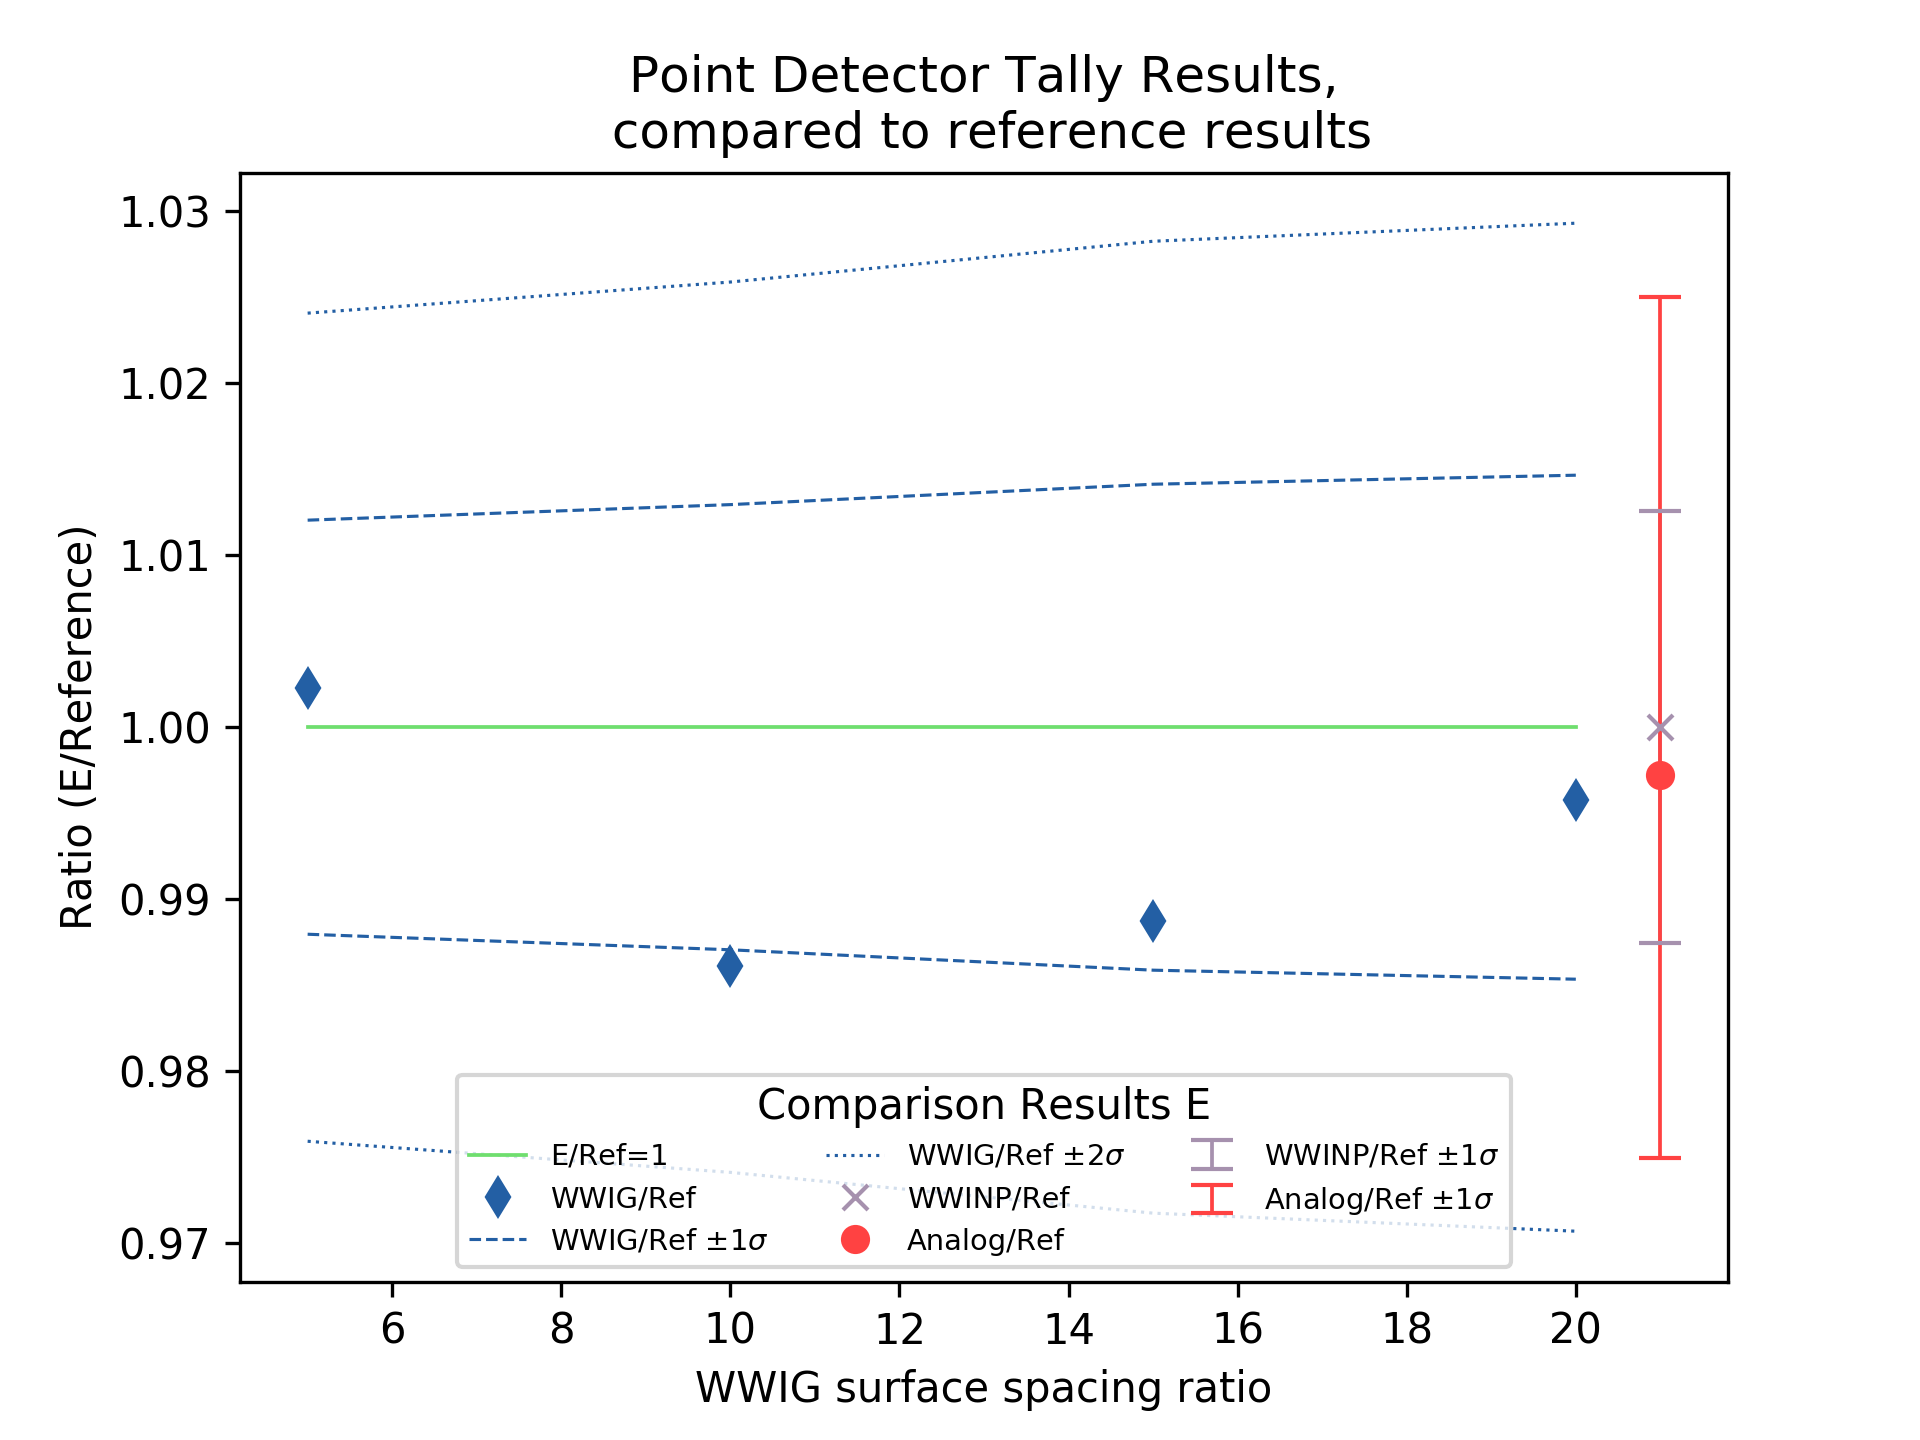
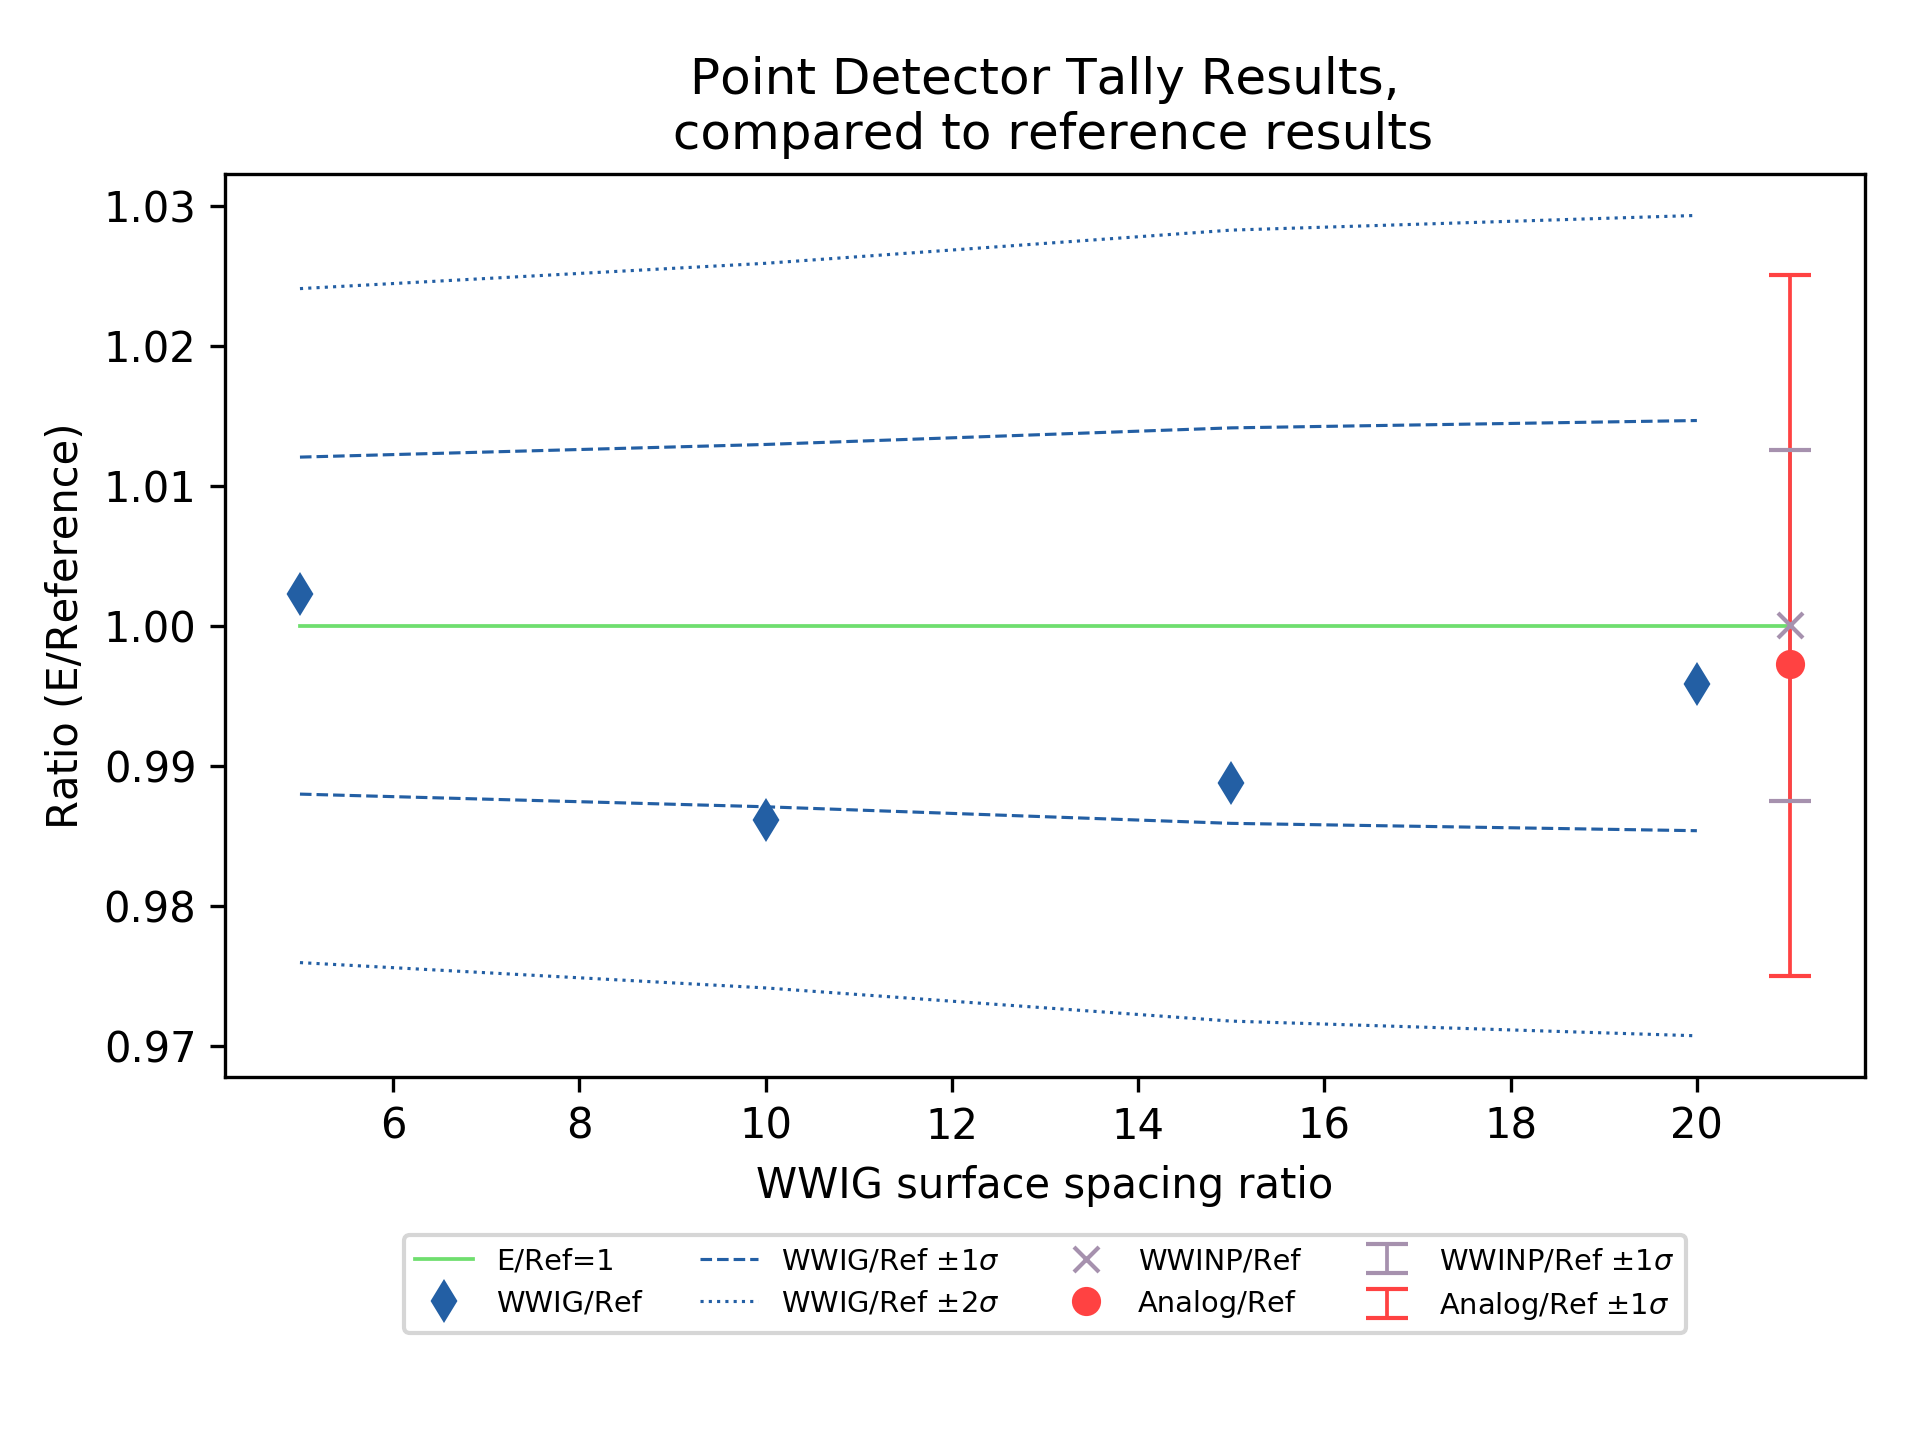
better plot formatting

diff --git a/analyze/tally_15.py b/analyze/tally_15.py
@@ -70,10 +70,11 @@ plt.plot(ref_xs, ref1_lower, label='', ls='--', lw=.75, color=ref_color)
 plt.plot(ref_xs, ref2_upper, label='Reference $\pm 2\sigma$',
          ls=':', lw=.75, color=ref_color)
 plt.plot(ref_xs, ref2_lower, label='', ls=':', lw=.75, color=ref_color)
-plt.xlabel('WWIG surface spacing ratio')
+plt.xlabel('WWIG surface spacing ratio $r$')
 plt.ylabel('Tally')
 plt.title('Point Detector Tally Results')
-plt.legend(loc='best', ncol=2, fontsize='x-small')
+plt.legend(bbox_to_anchor=(0.5, -.21), loc='lower center', ncol=6, fontsize='x-small')
+plt.tight_layout()
 plt.savefig('tally15_results.png', dpi=dpi)
 
 # plot wwinp ratio
@@ -102,9 +103,8 @@ ar2_upper, ar2_lower = calc_sigmas(r1, aerr, 2)
 plt.figure()
 
 # reference
-plt.plot(ratios, r1, label='E/Ref=1', ls='-', marker='', lw=.9,
+plt.plot(np.append(ratios, ext_x), np.append(r1, 1), label='E/Ref=1', ls='-', marker='', lw=.9,
          color=ref_color)
-
 # wwig/reference
 plt.plot(ratios, wgratio, label='WWIG/Ref', ls='', marker='d', lw=.9,
          color=wwig_color)
@@ -130,24 +130,27 @@ plt.plot(ext_x, aratio, label='Analog/Ref', ls='', marker='o', lw=.9,
 plt.xlabel('WWIG surface spacing ratio')
 plt.ylabel('Ratio (E/Reference)')
 plt.title('Point Detector Tally Results,\n compared to reference results')
-plt.legend(loc='best', ncol=3, fontsize='x-small',
-           title='Comparison Results E')
+plt.legend(bbox_to_anchor=(0.5, -.3), loc='lower center', ncol=4,
+           fontsize='x-small')
+plt.tight_layout()
+
 plt.savefig('tally15_ratios.png', dpi=dpi)
 
 # plot relative errors
 plt.figure()
 plt.plot(ref_xs[:len(ratios)], ref_err[:len(ratios)], label='Reference',
          ls='-', marker='', lw=.9, color=ref_color)
-plt.plot(ratios, wwinp_err, label='WWINP', ls='--', marker='', lw=.9,
-         color=wwinp_color)
 plt.plot(ratios, wwig_err, label='WWIG', ls='-', marker='d', lw=.9,
          color=wwig_color)
+plt.plot(ratios, wwinp_err, label='WWINP', ls='--', marker='', lw=.9,
+         color=wwinp_color)
 plt.plot(ratios, analog_err, label='Analog', ls='-.', marker='', lw=.9,
          color=analog_color)
 plt.xlabel('WWIG surface spacing ratio')
 plt.ylabel('Relative Error')
 plt.title('Point Detector Tally Relative Error')
-plt.legend(loc='best', fontsize='x-small')
+plt.legend(bbox_to_anchor=(0.5, -.21), loc='lower center', ncol=4, fontsize='x-small')
+plt.tight_layout()
 plt.savefig('tally15_error.png', dpi=dpi)
 
 plt.show()
